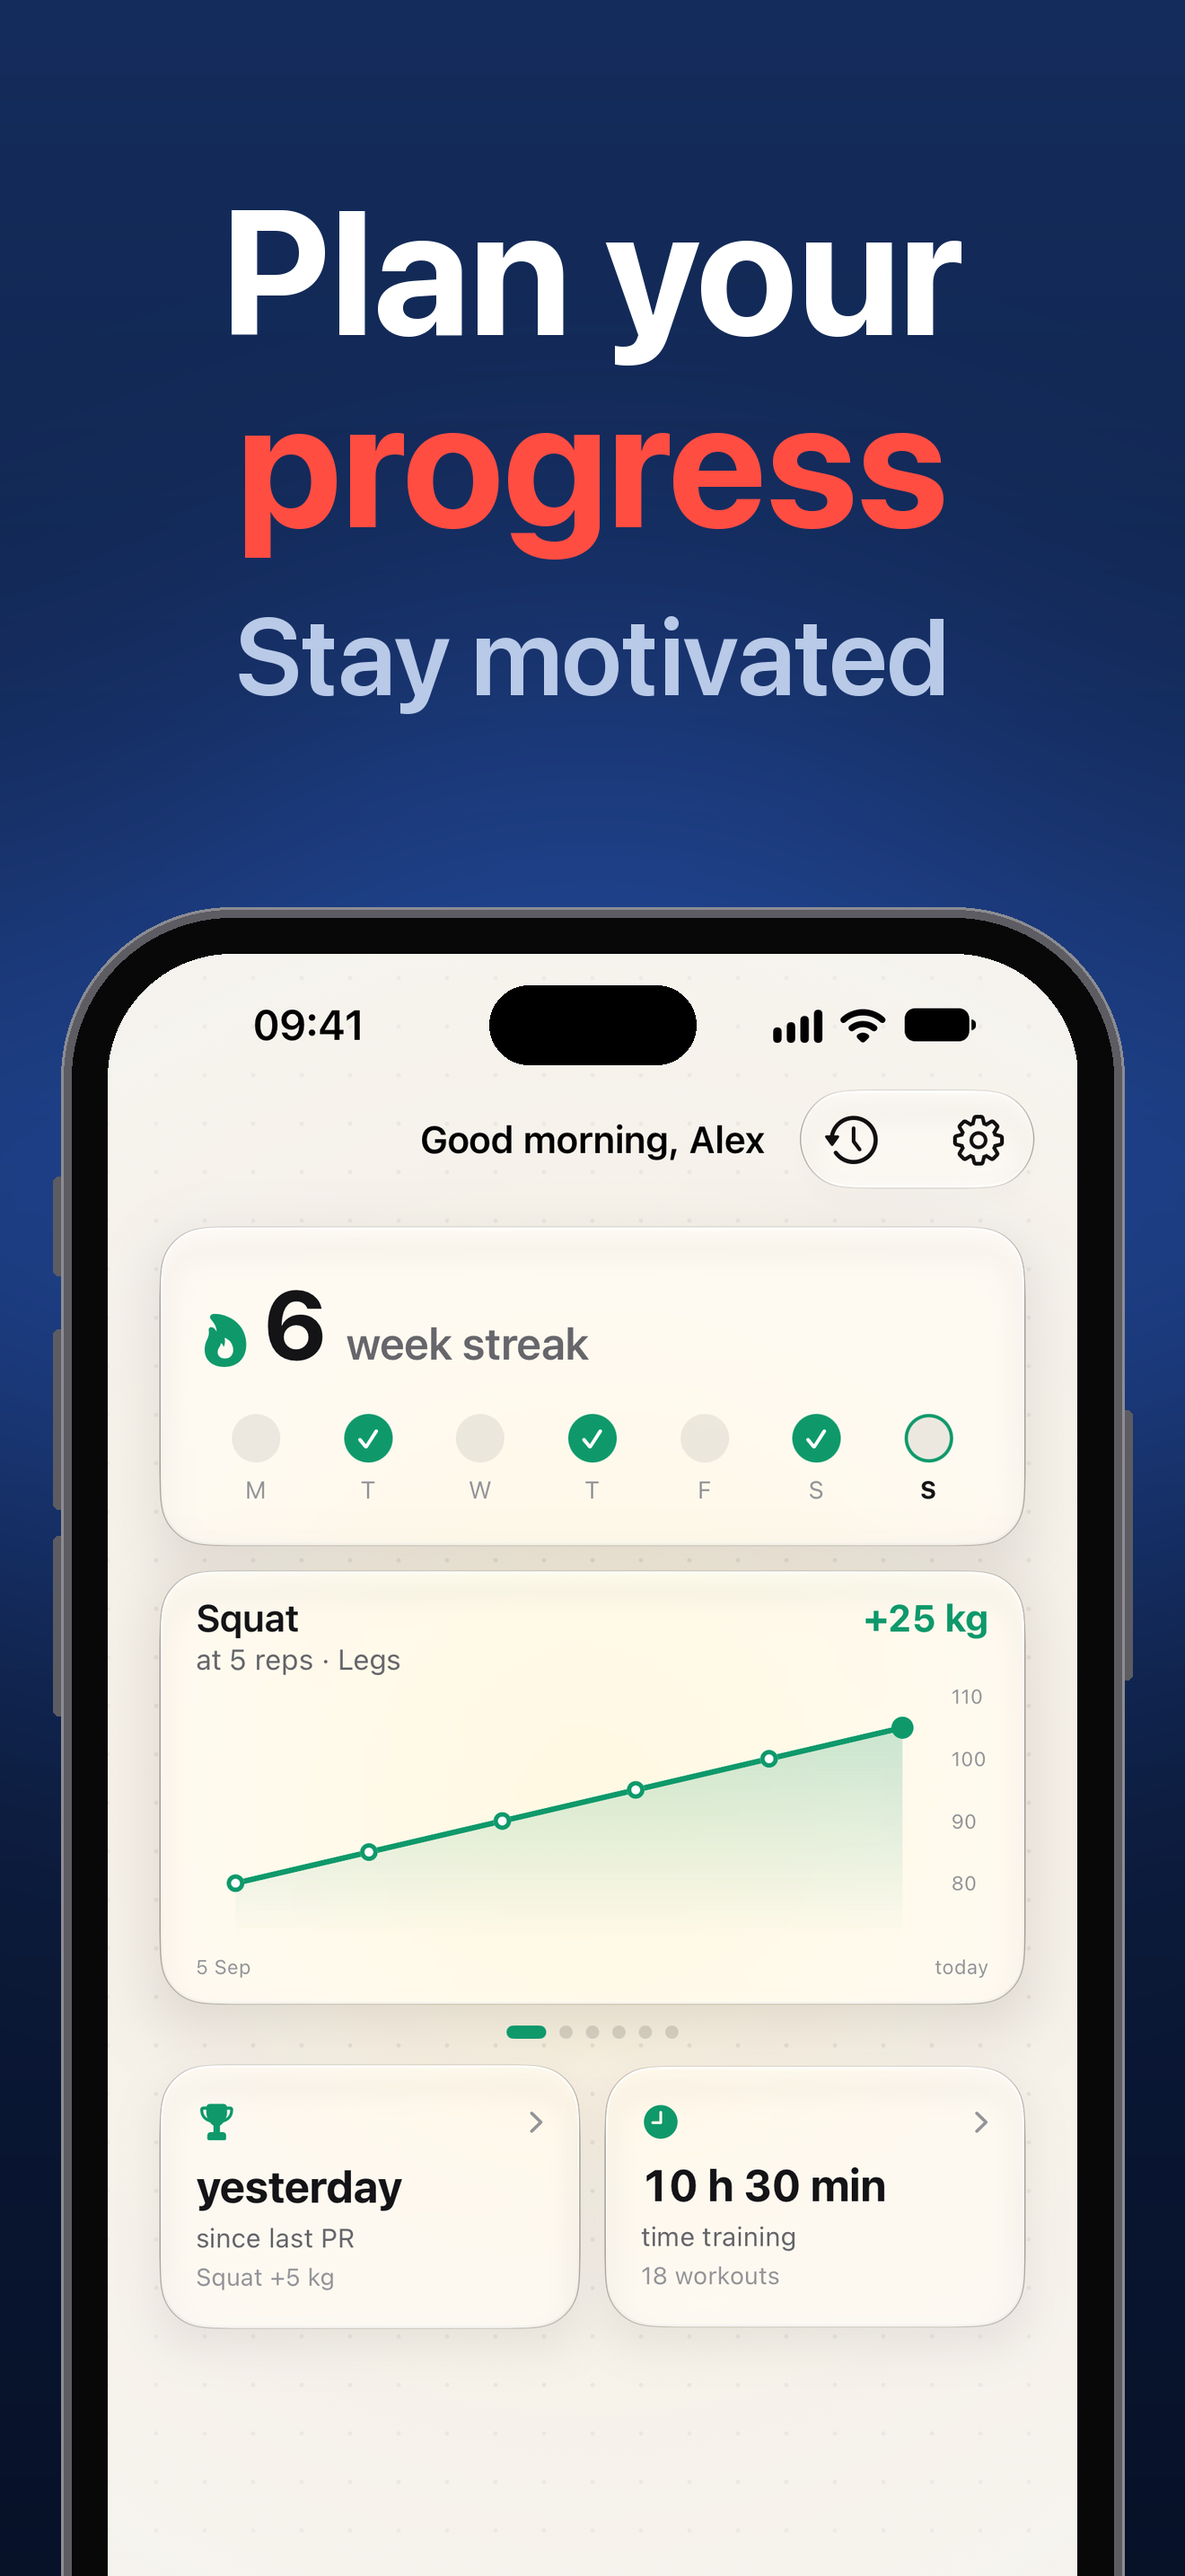
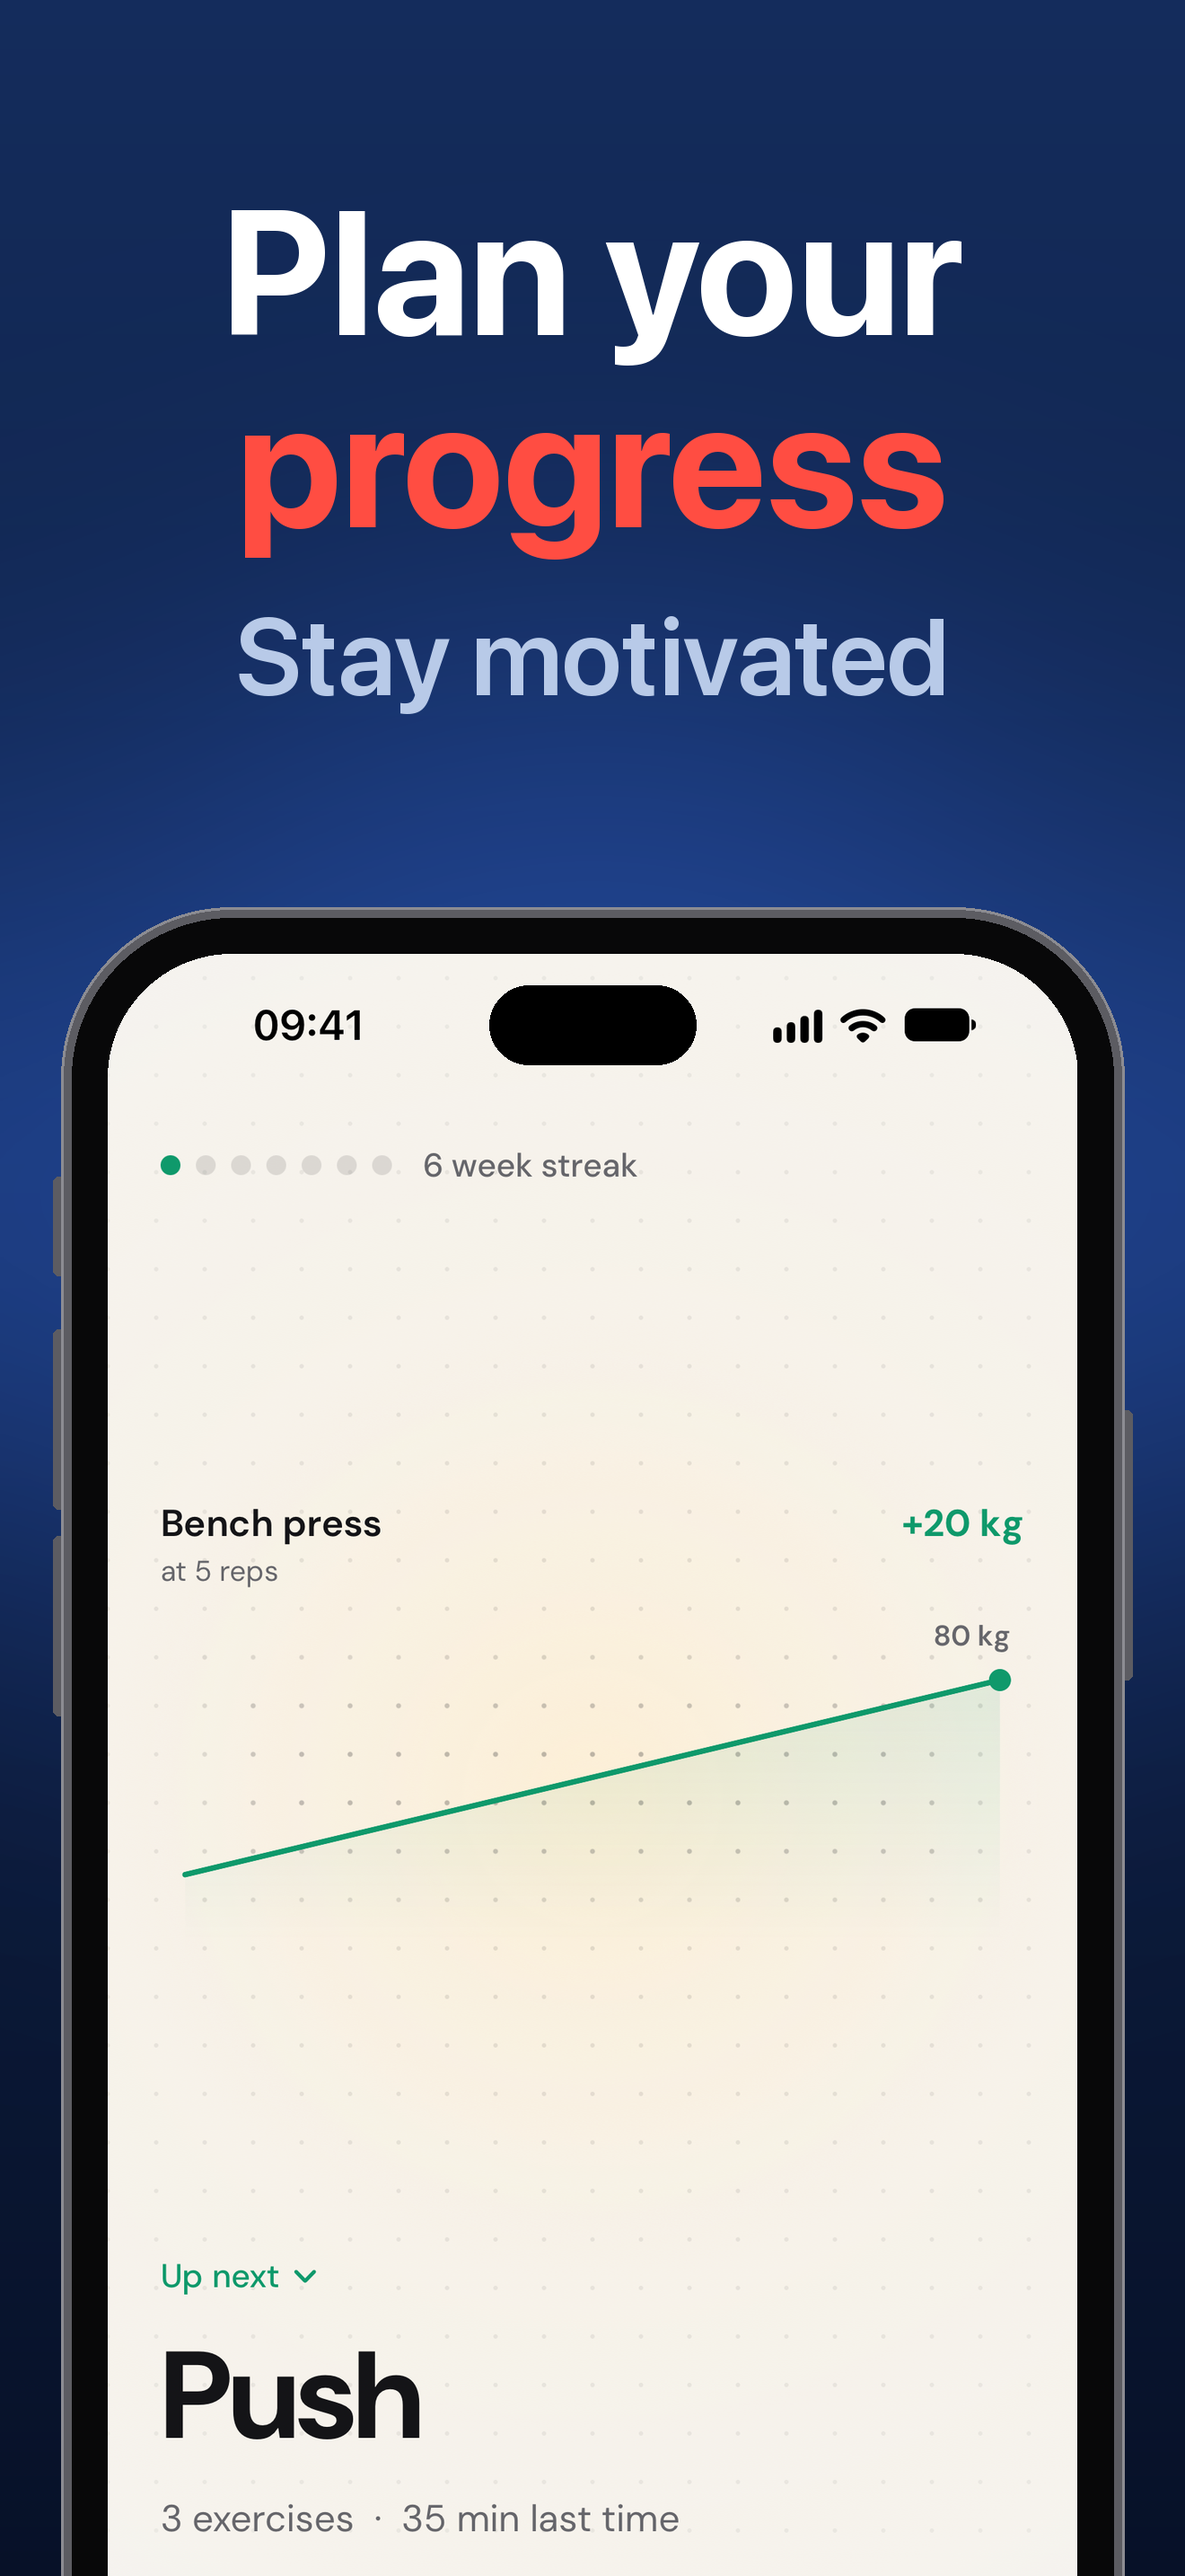
App Store screenshots recaptured for the new design
Five framed slides in screenshots/store-final/ from seeded captures in
screenshots/store-2026-10-12/ (6.9-inch, iOS 27.0). Slide 5 now shows
Profile's month of dots. -storeShots fills Profile's blocked-apps card;
that card's caption no longer wraps beside app icons.

diff --git a/GymBlock/Profile.swift b/GymBlock/Profile.swift
@@ -137,7 +137,18 @@ private struct BlockedAppsCard: View {
     .journeyGlass(RoundedRectangle(cornerRadius: 20, style: .continuous), interactive: true)
   }
   @ViewBuilder private var content: some View {
-    if store.profile.focusEnabled != true {
+    if !StoreShots.apps.isEmpty {
+      // Development only (`-storeShots YES`): the six sample apps, as on the blocking page.
+      VStack(alignment: .leading, spacing: 12) {
+        HStack(spacing: 7.5) {
+          ForEach(StoreShots.apps, id: \.self) { app in
+            Image(app.asset).resizable().scaledToFill().frame(width: 30, height: 30)
+              .clipShape(RoundedRectangle(cornerRadius: 7, style: .continuous))
+          }
+        }
+        Text(store.t("Blocked while you train")).font(.app(.body)).foregroundStyle(JourneyColor.secondary)
+      }.frame(maxWidth: .infinity, alignment: .leading)
+    } else if store.profile.focusEnabled != true {
       row(icon: "lock.open", tint: JourneyColor.secondary, title: store.t("App blocking is off"))
     } else if blocking.isEmpty {
       row(icon: "lock.fill", tint: JourneyColor.signal, title: store.t("Choose apps to block"))
@@ -145,7 +156,7 @@ private struct BlockedAppsCard: View {
       VStack(alignment: .leading, spacing: 12) {
         BlockedIcons(size: 30, limit: 6).foregroundStyle(JourneyColor.secondary)
         Text(store.t("Blocked while you train")).font(.app(.body)).foregroundStyle(JourneyColor.secondary)
-      }
+      }.frame(maxWidth: .infinity, alignment: .leading)
     }
   }
   private func row(icon: String, tint: Color, title: String) -> some View {

diff --git a/scripts/frame-store-screenshots.py b/scripts/frame-store-screenshots.py
@@ -9,13 +9,13 @@ bottom edge, cut above each screen's bottom button.
 
     python3 scripts/frame-store-screenshots.py
 
-Reads screenshots/store-2026-10-10/, writes screenshots/store-final/.
+Reads screenshots/store-2026-10-12/, writes screenshots/store-final/.
 """
 import os
 from PIL import Image, ImageDraw, ImageFilter, ImageFont
 
 ROOT = os.path.dirname(os.path.dirname(os.path.abspath(__file__)))
-SRC = os.path.join(ROOT, "screenshots", "store-2026-10-10")
+SRC = os.path.join(ROOT, "screenshots", "store-2026-10-12")
 OUT = os.path.join(ROOT, "screenshots", "store-final")
 
 W, H = 1320, 2868
@@ -31,11 +31,11 @@ BODY = (8, 8, 9)
 
 # Headline, the red word, second line, capture.
 SLIDES = [
-    ("Stop scrolling in the gym", "scrolling", "Block apps", "16b-onboarding-blocking-apps.png"),
-    ("Track your workouts", "workouts", "Time your rests", "42-workout-rest.png"),
-    ("Plan your progress", "progress", "Stay motivated", "31b-home-clean.png"),
-    ("Beat your record", "record", None, "56-progress-before-after.png"),
-    ("Keep your streak alive", "streak", None, "47-workout-summary.png"),
+    ("Stop scrolling in the gym", "scrolling", "Block apps", "1-blocking-apps.png"),
+    ("Track your workouts", "workouts", "Time your rests", "2-workout-rest.png"),
+    ("Plan your progress", "progress", "Stay motivated", "3-home.png"),
+    ("Beat your record", "record", None, "4-squat-record.png"),
+    ("Keep your streak alive", "streak", None, "5-profile-month.png"),
 ]
 
 SF = "/System/Library/Fonts/SFNS.ttf"
@@ -148,7 +148,6 @@ def main():
         name = f"{i}-{headline.lower().replace(' ', '-')}.png"
         frame(headline, accent, sub, capture).save(os.path.join(OUT, name))
         print(name)
-
 
 if __name__ == "__main__":
     main()

diff --git a/docs/listing.md b/docs/listing.md
@@ -69,15 +69,17 @@ Privacy Policy: https://www.orecci.com/gymblock/privacy-policy
 
 ## Screenshots
 
-Captions chosen 11 Oct 2026 after a look at Hevy, Strong, Fitbod, RepCount, Setgraph, Opal, ScreenZen, one sec, Brick and others: a verb-led headline with a short second line, one word in red. Search results show the first three. Captures are 1320×2868 (6.9-inch) in `screenshots/store-picks/`; the framed versions (deep blue stage, white headline with one red word, a thick phone running off the bottom edge) are in `screenshots/store-final/`, made by `python3 scripts/frame-store-screenshots.py`.
+Captions chosen 11 Oct 2026 after a look at Hevy, Strong, Fitbod, RepCount, Setgraph, Opal, ScreenZen, one sec, Brick and others: a verb-led headline with a short second line, one word in red. Search results show the first three. Recaptured 12 Oct 2026 after the workout, Home, Profile and DM Sans redesign: captures are 1320×2868 (6.9-inch, iPhone 18 Pro Max, iOS 27.0) in `screenshots/store-2026-10-12/`; the framed versions (deep blue stage, white headline with one red word, a thick phone running off the bottom edge) are in `screenshots/store-final/`, made by `python3 scripts/frame-store-screenshots.py`.
 
 | # | Headline | Second line | Screen |
 |---|---|---|---|
-| 1 | Stop **scrolling** in the gym | Block apps | The blocking page with six locked apps (`-storeShots YES -journeyStep blocking`); alternative: the rebuilt shield over Instagram (`-shieldPreview Instagram`) |
-| 2 | Track your **workouts** | Time your rests | Workout mid-rest (`-workoutStage rest`) |
-| 3 | Plan your **progress** | Stay motivated | Home with the week streak, no "Sample data" line (`--demo -storeShots YES`) |
-| 4 | Beat your record | | Squat before/after, +25 kg |
-| 5 | Keep your streak alive | | Workout summary |
+| 1 | Stop **scrolling** in the gym | Block apps | The blocking page with six locked apps (`-storeShots YES -journeyStep blocking`) |
+| 2 | Track your **workouts** | Time your rests | Arms mid-rest after set 1 (`-workoutStage rest -storeShots YES`) |
+| 3 | Plan your **progress** | Stay motivated | Home: 6 week streak, Bench press +20 kg, Up next Push (after the workout below) |
+| 4 | Beat your **record** | | Squat before/after, +20 kg (Home → Up next → Legs → tap the chart) |
+| 5 | Keep your **streak** alive | | Profile: October's training dots and blocked apps |
+
+Slides 3–5 come from one seeded run: `-workoutStage next -storeShots YES`, set 3 edited to 21.5 kg, End → Done → Home (3) → Profile (5) → squat (4). The rebuilt shield over Instagram (`-shieldPreview Instagram`) and the workout summary were tried for slides 1 and 5 on 12 Oct and rejected. The sample history's weeks start on Monday, so on a Monday only the day's own workout fills this week's dot.
 
 Keep the onboarding phone-time estimates ("34 of 46 minutes") out of the screenshots. They are the user's own numbers, not a measurement.
 

diff --git a/VALIDATION.md b/VALIDATION.md
@@ -1,5 +1,19 @@
 # Validation — 8 October 2026
 
+## App Store screenshots recaptured (12 October 2026)
+
+The 11 October set showed the old ring workout, the card Home and the old summary, all in SF Pro. Recaptured on a new 6.9-inch simulator (`GymBlock Store 6.9`, iPhone 18 Pro Max, iOS 27.0, status bar 9:41, full signal, battery not charging) from seeded sample data, and reframed with the unchanged script: [screenshots/store-final](screenshots/store-final/), captures in [screenshots/store-2026-10-12](screenshots/store-2026-10-12/), sheet `screenshots/store-final-overview.png`. Slide 5 moved from the summary to Profile's month of dots, which shows a streak. The shield (slide 1) and the summary (slide 5) were tried as alternatives and rejected by the user. Steps in `docs/listing.md`.
+
+- `-storeShots YES` now also fills Profile's blocked-apps card with the six sample apps (Debug only).
+- Profile's blocked-apps card wrapped "Blocked while you train" onto two lines whenever icons were shown (the column took the icon row's width); it now spans the card.
+- Found, not fixed: `-workoutStage summary` launches to a blank screen (the app idles without drawing); the summary after ending a workout in the app is fine.
+
+## Workout keyboard: Next from weight to reps (12 October 2026)
+
+While the weight is open, the keyboard bar's compact button reads **Next** and moves to the reps; on the reps it reads **Done** and closes the keyboard, so a set is typed in one go. Both words take the same width, so the button doesn't shift. A set's weight already carried to the next set (the draft stays; the grey rows show it), and set 1 of a new exercise still starts blank.
+
+Checked on the GymBlock Review simulator (iOS 27.0), captures in [screenshots/2026-10-12-keyboard-next](screenshots/2026-10-12-keyboard-next/): Next on the weight, Done on the reps, the typed set, and set 2 starting at set 1's 12.5 kg × 10. The simulator hides the iPhone keyboard (a Mac keyboard counts as connected), so the bar sits at the bottom; on an iPhone it sits on the number pad. No test suite was run; `StoreScreenshotsUITests` now taps Next before Done.
+
 ## Home: greeting, week dots, progress on the paper (12 October 2026)
 
 Home is the greeting ("Good morning, Sirish"), the week dots with the streak, then up to three exercises' progress in rotation (`ProgressCarousel`, a page every 4 s, a swipe holds it 12 s), then Up next low on the page above Start workout. The charts sit on the paper with no card, gridlines, scale, dates or split names: the page's dots darken behind the plot (`DotField`, on `DotGrid`'s 22-pt lattice, easing in over three dots), Home's page dots run 1.25× darker, and only the latest workout is a point, labelled with its value. With no line yet the space shows only "Start a workout to see your progress" (or "Repeat a workout…"), never sample numbers.
